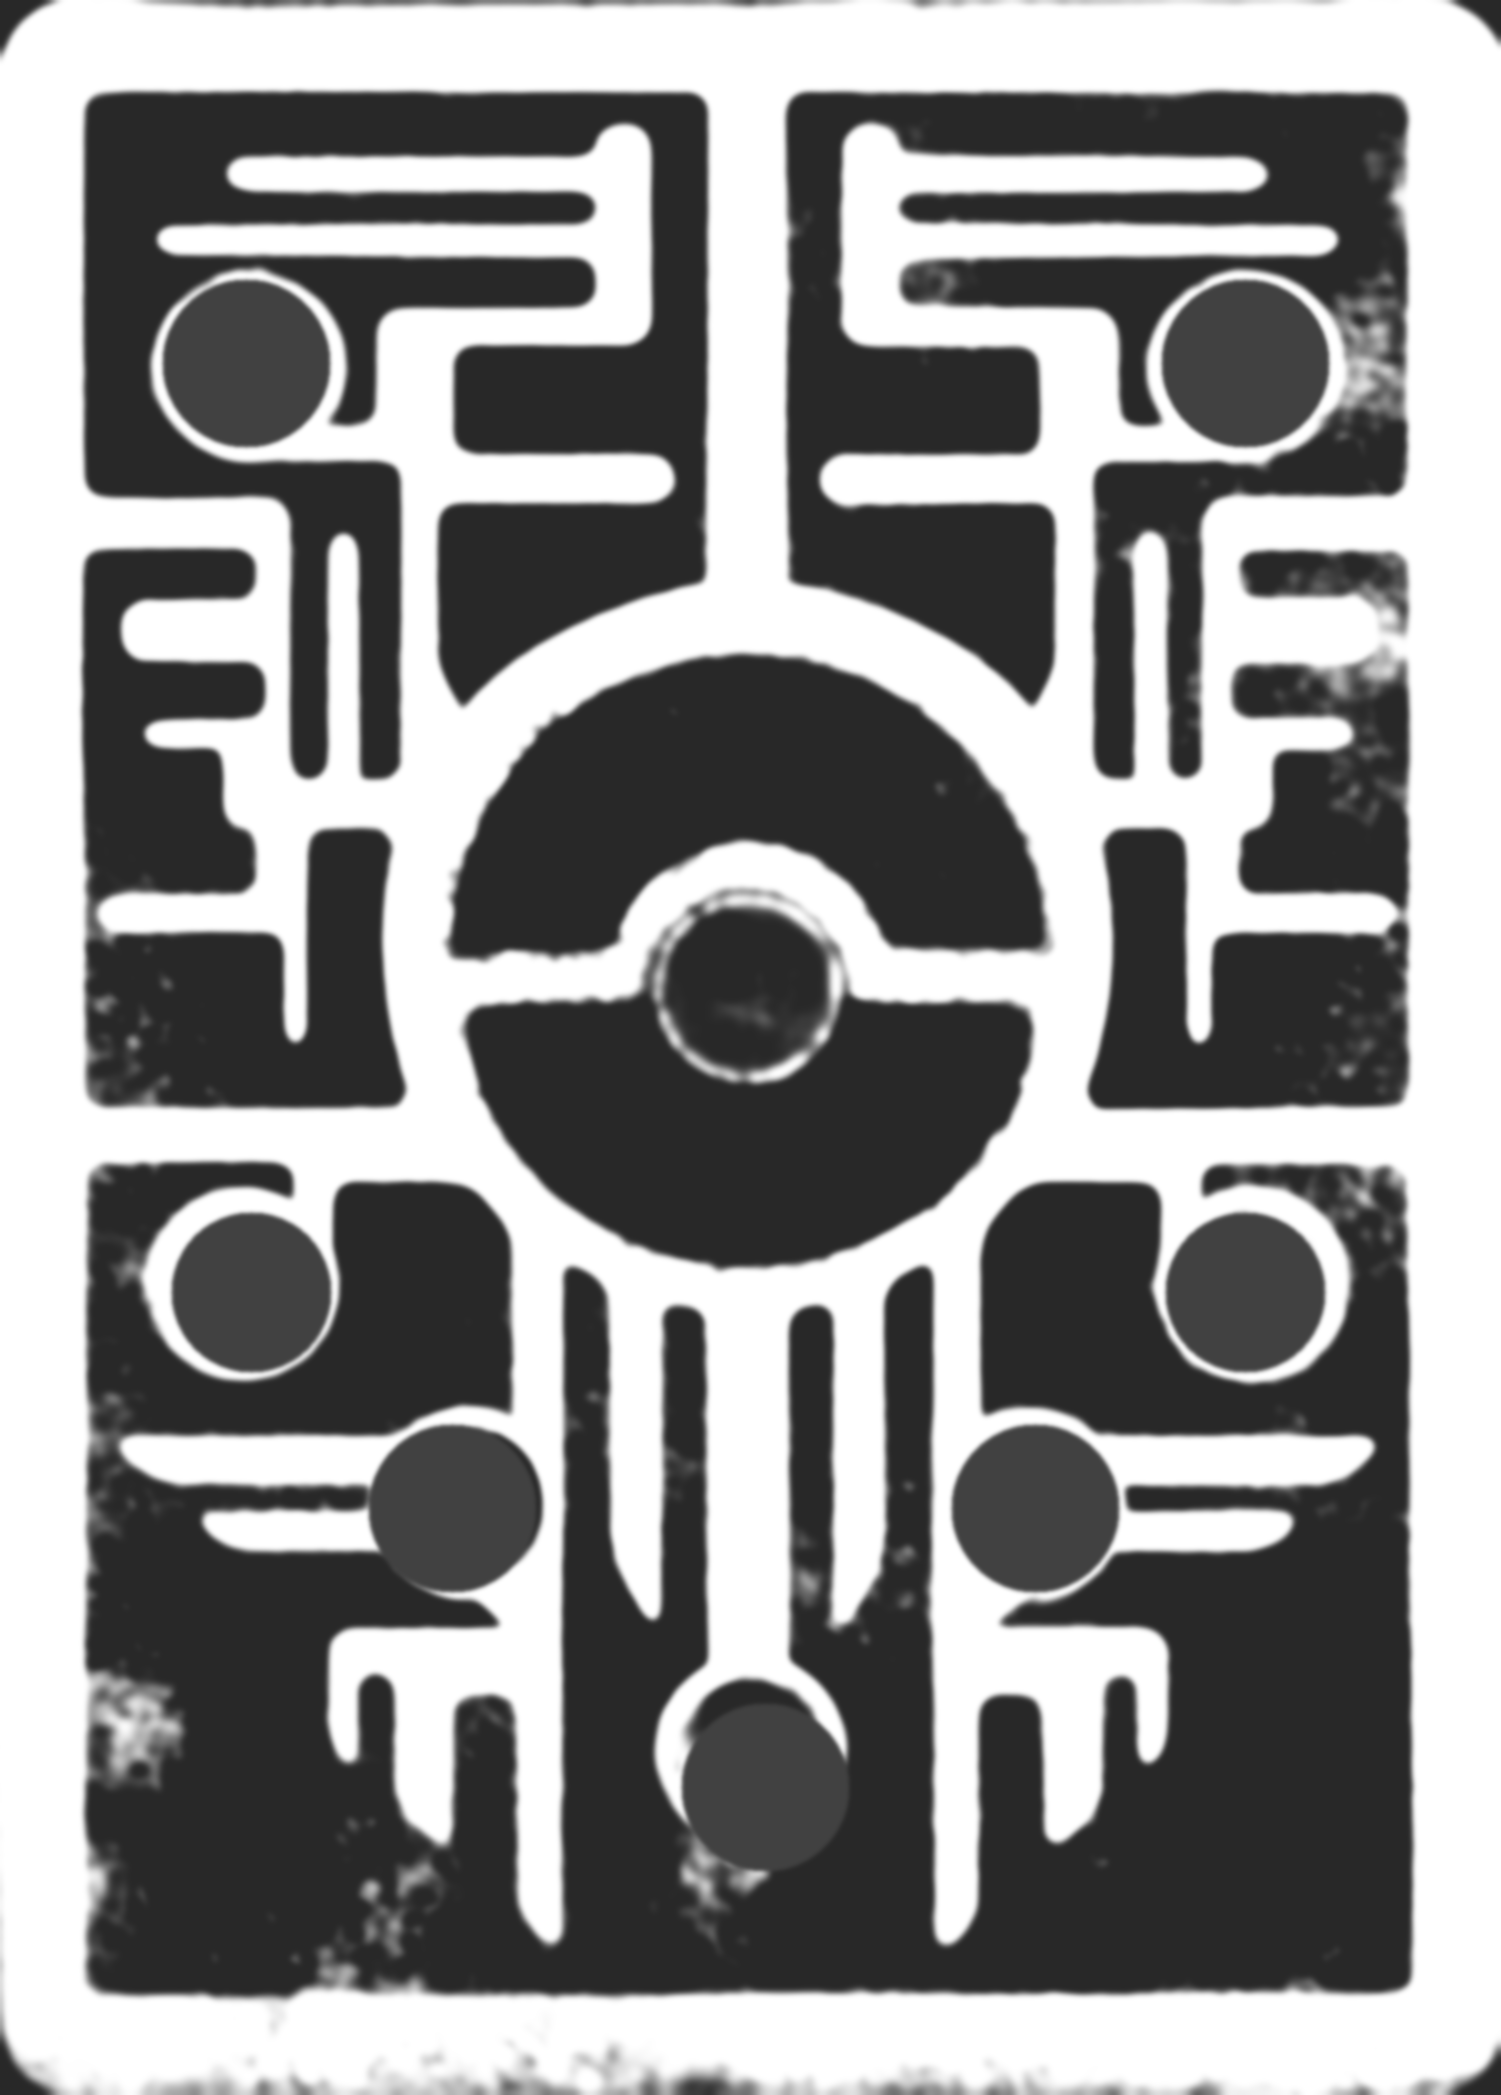
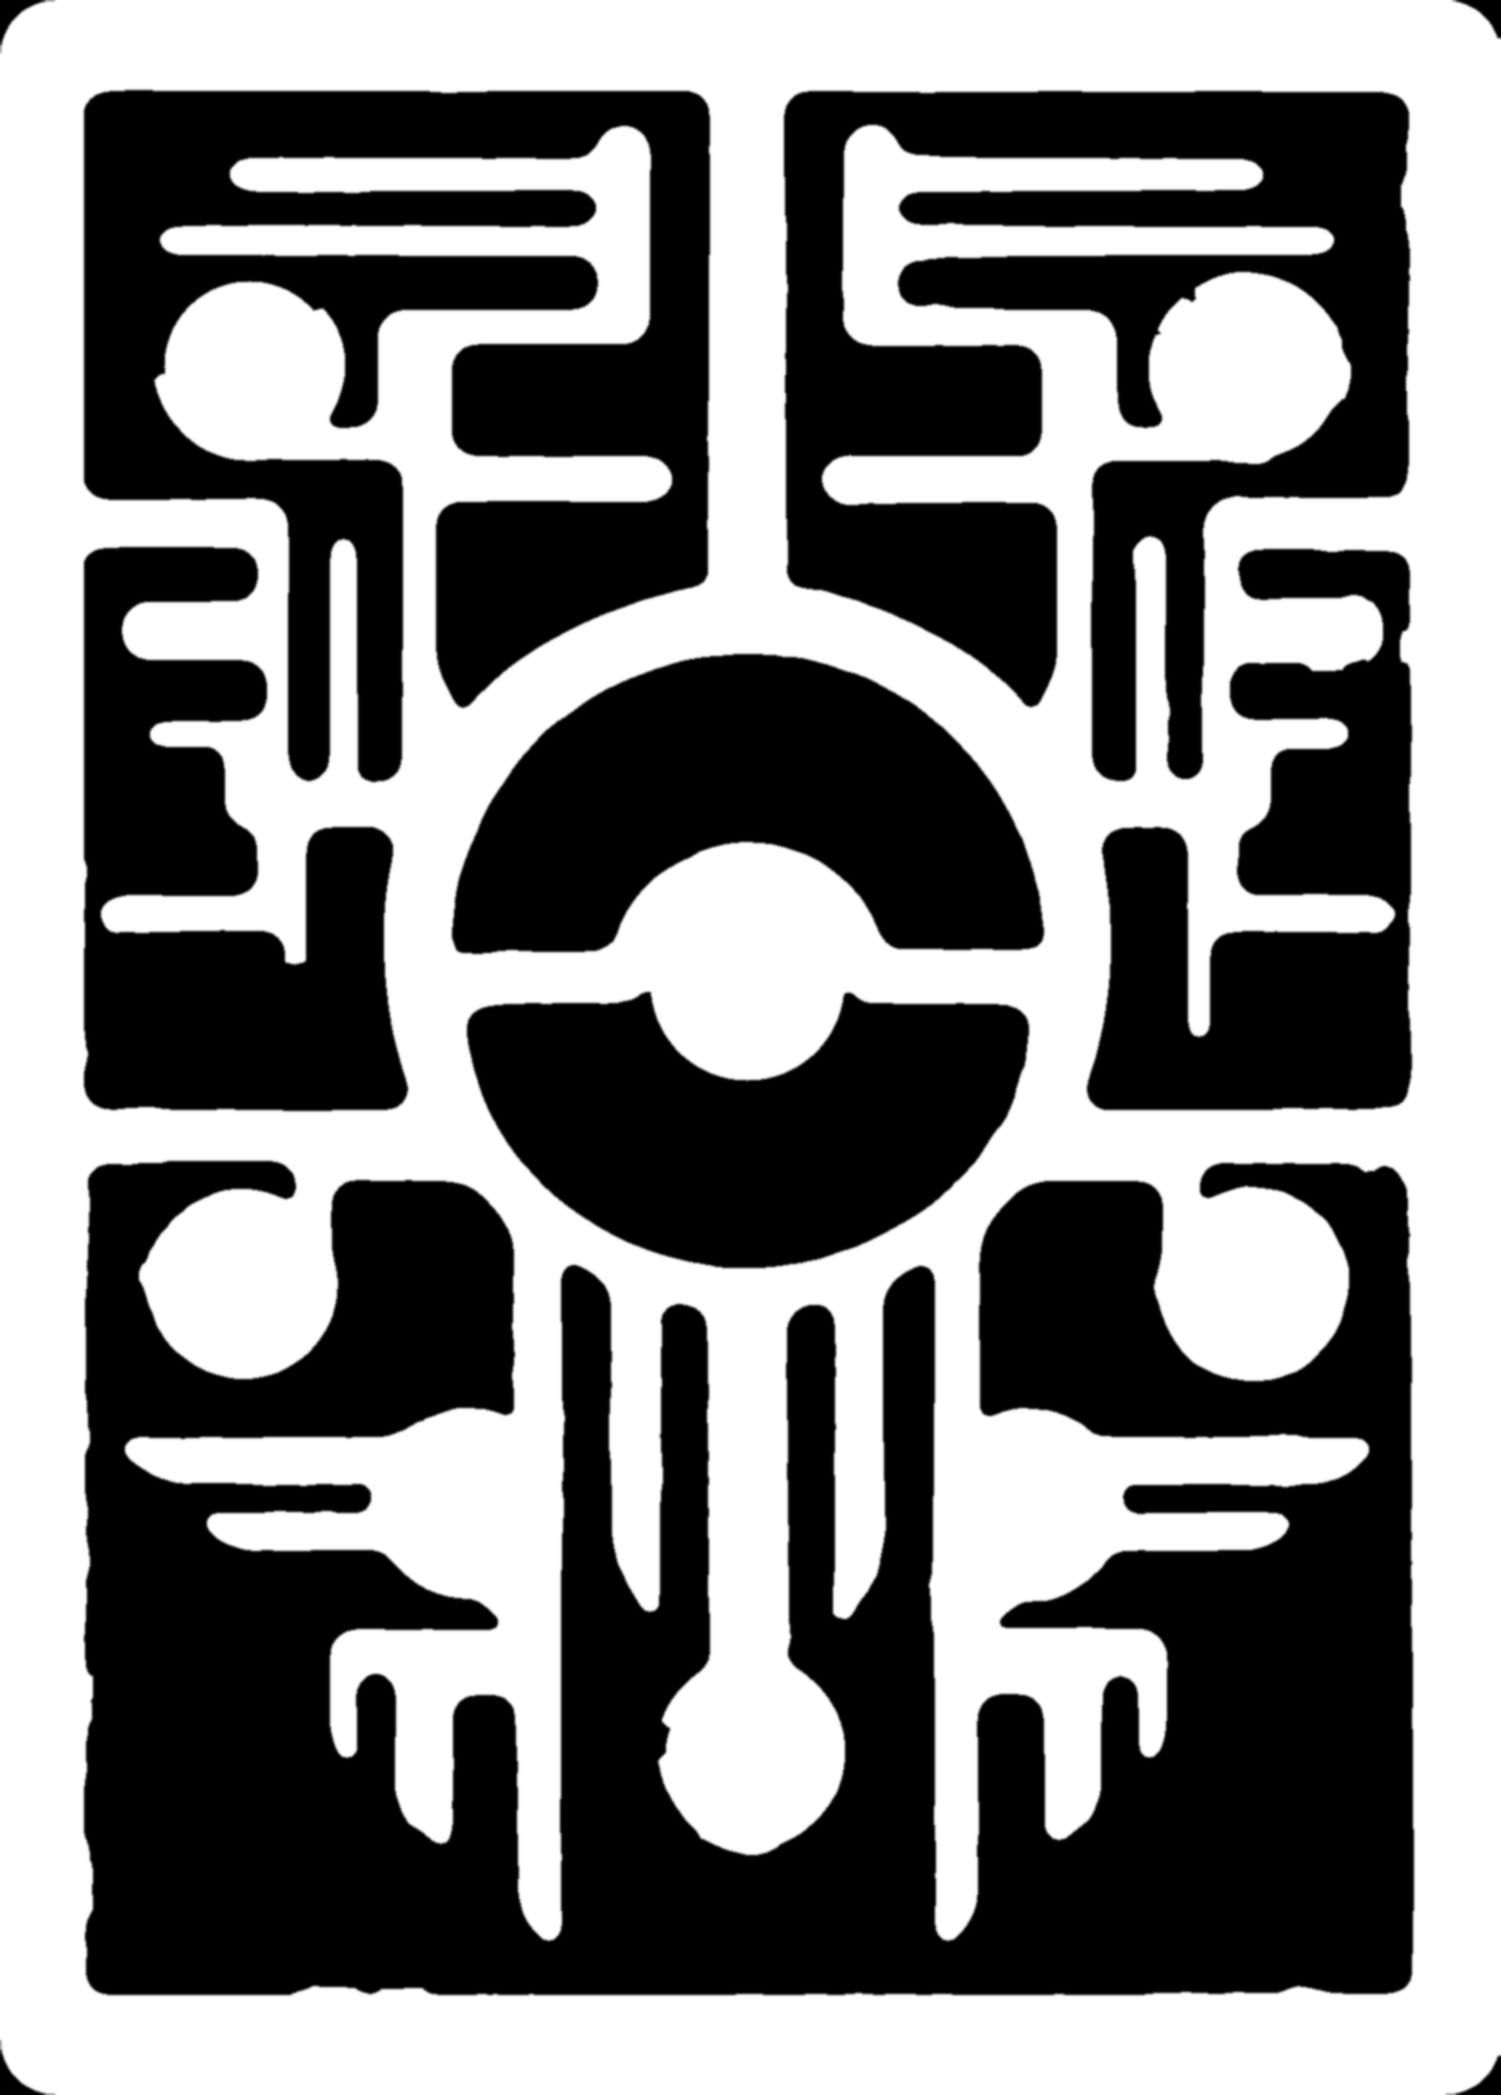
Limit Ancient Mew back foil to gold and gems

diff --git a/src/materials/profiles/pokemon.ts b/src/materials/profiles/pokemon.ts
@@ -187,7 +187,7 @@ export const pokemonProfiles: HolographicProfile[] = [{
   },
 }, {
   id: 'pokemon-ancient-mew-back', name: 'Ancient Mew reverse foil', family: 'Pokémon', status: 'curated',
-  description: 'Continuous reverse foil with polished gold color travel and subdued navy ink, guided by the supplied rotating card video. No added granular pattern.',
+  description: 'Registered reverse foil on gold print and gems, with matte navy artwork. Guided by the supplied rotating card video; no added granular pattern.',
   diffraction: { period: 1.5, bandwidth: .055, strength: 2.7, secondaryOrder: .12, direction: 0, crossWidth: .65, facetCoupling: 0 },
   structure: { field: 'plain', scale: 1, engraving: 0, relief: 0, facetTilt: 0, reflectionCoupling: 0 },
   glints: { density: 0, scale: 500, sharpness: 200, strength: 0, spread: .4 },

diff --git a/scripts/ancient-mew/author-back.py b/scripts/ancient-mew/author-back.py
@@ -13,17 +13,44 @@ direction[:,:,0]=np.uint8((np.cos(2*a)*.5+.5)*255)
 direction[:,:,1]=np.uint8((np.sin(2*a)*.5+.5)*255)
 direction[:,:,2]=85
 direction[:,:,3]=255
-# Color separation controls ink transmission, never height. Average the scan's
-# photographed flecks before separating warm gold from cool navy, so the foil
-# coverage does not reproduce those flecks as another optical texture.
-color=cv2.GaussianBlur(im.astype(np.float32),(0,0),5)
+# Color separation controls foil coverage, never height. Average photographed
+# flecks, then retain only the connected gold printing. Warm flecks inside the
+# navy print must not become isolated holographic spots.
+color=cv2.GaussianBlur(cv2.medianBlur(im,21).astype(np.float32),(0,0),3)
 warm=color[:,:,0]-color[:,:,2]
-gold=np.clip((warm-12)/65,0,1)
-gold=gold*gold*(3-2*gold)
-foil=np.uint8(40+215*gold)
-# Ink on the seven colored energy medallions filters and attenuates the foil.
-for cx,cy,r in [(220,325,75),(1115,325,75),(225,1157,72),(1115,1157,72),(405,1350,75),(927,1350,75),(685,1600,75)]:
- cv2.circle(foil,(round(cx*w/1344),round(cy*h/1876)),round(r*w/1344),65,-1)
-foil=cv2.GaussianBlur(foil,(11,11),2)
+def clean_gold(red_floor):
+ mask=np.uint8((warm>35)&(color[:,:,0]>red_floor))*255
+ mask=cv2.morphologyEx(mask,cv2.MORPH_CLOSE,cv2.getStructuringElement(cv2.MORPH_ELLIPSE,(9,9)))
+ return cv2.morphologyEx(mask,cv2.MORPH_OPEN,cv2.getStructuringElement(cv2.MORPH_ELLIPSE,(17,17)))
+
+strong=clean_gold(140)
+weak=clean_gold(95)
+# Recover dim antialiased gold edges close to strong print, but reject the
+# larger brown flecks photographed inside the navy panels.
+near=cv2.dilate(strong,cv2.getStructuringElement(cv2.MORPH_ELLIPSE,(21,21)))
+gold=np.minimum(weak,near)
+border=np.zeros((h,w),np.uint8)
+border[:round(85*h/2095)]=255
+border[round(1995*h/2095):]=255
+border[:,:round(84*w/1501)]=255
+border[:,round(1416*w/1501):]=255
+# The printed perimeter is gold even where the scan's light makes it green.
+outline=np.zeros((h,w),np.uint8)
+radius=round(55*w/1501)
+cv2.rectangle(outline,(radius,0),(w-radius-1,h-1),255,-1)
+cv2.rectangle(outline,(0,radius),(w-1,h-radius-1),255,-1)
+for x in (radius,w-radius-1):
+ for y in (radius,h-radius-1): cv2.circle(outline,(x,y),radius,255,-1)
+gold=np.maximum(gold,np.minimum(border,outline))
+count,labels,stats,_=cv2.connectedComponentsWithStats(gold)
+gold=np.uint8(labels==1+np.argmax(stats[1:,cv2.CC_STAT_AREA]))*255
+# The eight gem faces are foil too. Keep their measured circles inside the
+# gold rims; the print outside these shapes remains matte navy.
+gems=np.zeros((h,w),np.uint8)
+sx,sy=w/1501,h/2095
+for cx,cy,r in [(249,366,85),(1247,366,85),(747,983,97),(245,1283,85),
+                (1245,1283,85),(467,1505,85),(1033,1505,85),(750,1756,85)]:
+ cv2.circle(gems,(round(cx*sx),round(cy*sy)),round(r*sx),255,-1)
+foil=cv2.GaussianBlur(np.maximum(gold,gems),(0,0),1.2)
 Image.fromarray(foil).save(root/'back-foil.png')
 Image.fromarray(direction).save(root/'back-direction.png')

diff --git a/docs/ancient-mew.md b/docs/ancient-mew.md
@@ -40,12 +40,12 @@ hashes, PNG dimensions, full-front layout, and deterministic top-down registrati
 lighting; use `HOLO_BROWSER_URL` and `REVIEW_SUFFIX` for the WebGPU comparison.
 Review artifacts are saved under `artifacts/ancient-mew*`.
 
-The reverse now uses its own `pokemon-ancient-mew-back` profile and full-face
-PNG coverage/direction maps. A uniform grating supplies coherent color travel;
+The reverse now uses its own `pokemon-ancient-mew-back` profile and registered
+PNG coverage/direction maps. Foil covers the gold print and all eight gem faces;
+the navy artwork stays matte. A uniform grating supplies coherent color travel;
 its axis and pitch are estimates from the supplied reverse rotation. Random
 grating grains are removed: the unchanged source scan already contains grain.
-Gold receives full foil coverage and a polished reflection, while navy ink and
-colored energy medallions attenuate the response. The standard viewer
+Gold and gems receive full foil coverage and a polished reflection. The standard viewer
 and CPU-prepared card paths both honor this independent reverse material.
 Regenerate with `python scripts/ancient-mew/author-back.py`; inspect with
 `node scripts/ancient-mew-back-review.mjs`.
